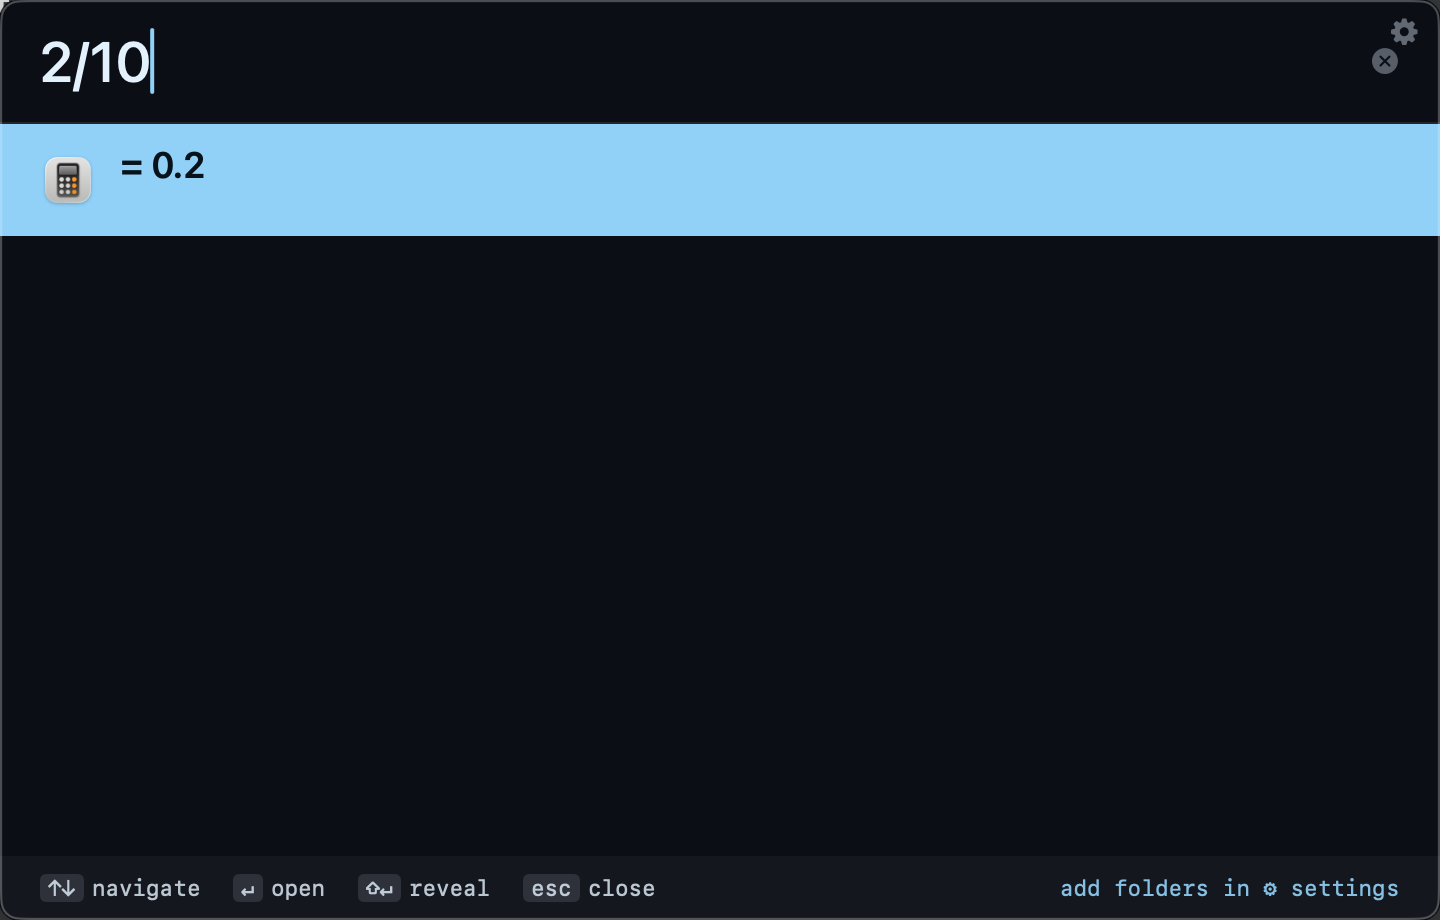
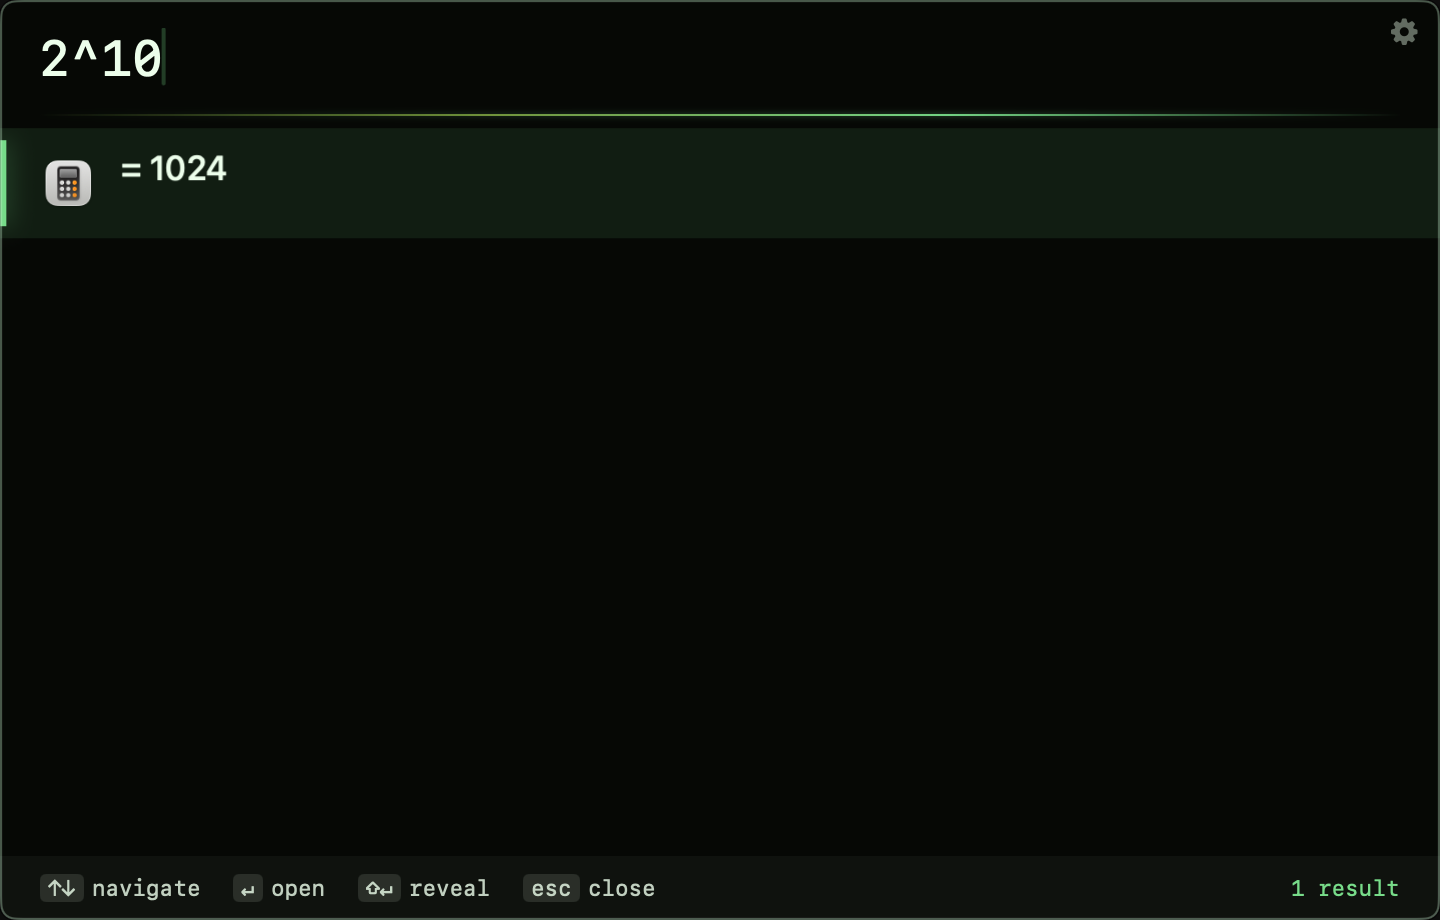
Retake screenshots: Acid Matrix hero, Synthwave search, Matrix calculator

diff --git a/README.md b/README.md
@@ -2,7 +2,7 @@
 
 **⌥Space, type, go.** A fast, offline Spotlight replacement for macOS.
 
-![Hero — Carbon Solid, apps-only home](screenshots/hero.png)
+![Photon — apps-only home, Acid Matrix](screenshots/hero.png)
 
 ## Why
 
@@ -23,7 +23,7 @@ swift run photon-overlay
 ## Features
 
 - **Apps always searchable** — no setup, no permissions on first run
-- **5 themes** — Classic, Carbon Bar, Carbon Solid, Schematic, Paper
+- **Six themes** — from flat light to full neon, switchable live in Settings
 - **Files opt-in** — add folders in Settings via the native picker; access is
   granted per-folder (no broad permission dialogs)
 - **Calculator** — type `2^10`, Enter copies the answer
@@ -34,10 +34,6 @@ swift run photon-overlay
 ![Search](screenshots/search.png)
 
 ![Calculator — type an expression, Enter copies it](screenshots/calc.png)
-
-![Settings — themes](screenshots/settings_themes.png)
-
-![Settings — scan folders](screenshots/settings_folders.png)
 
 ## Keys
 
